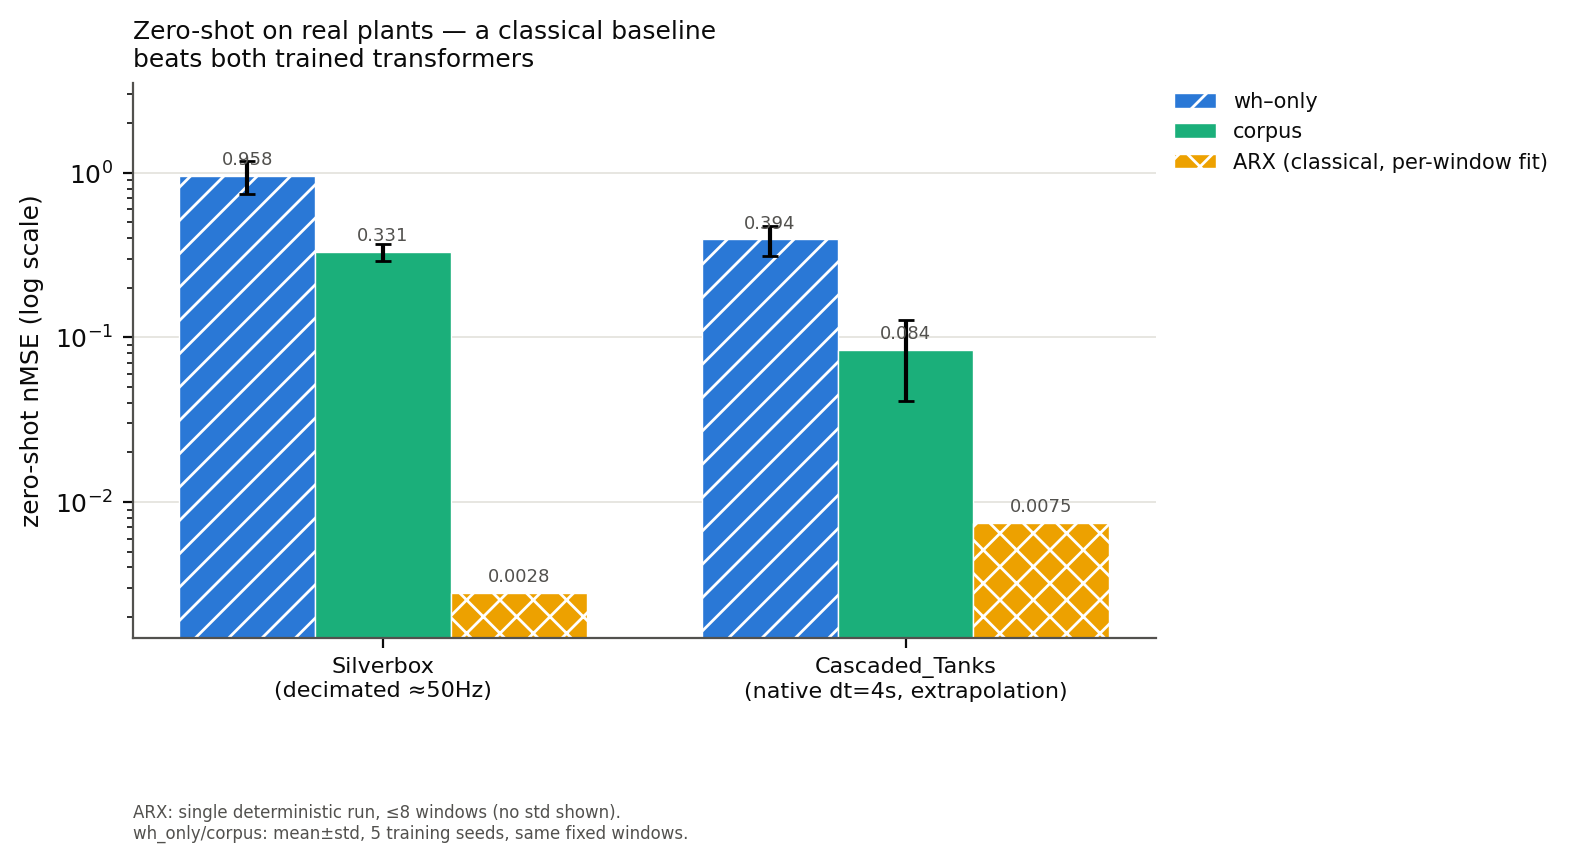
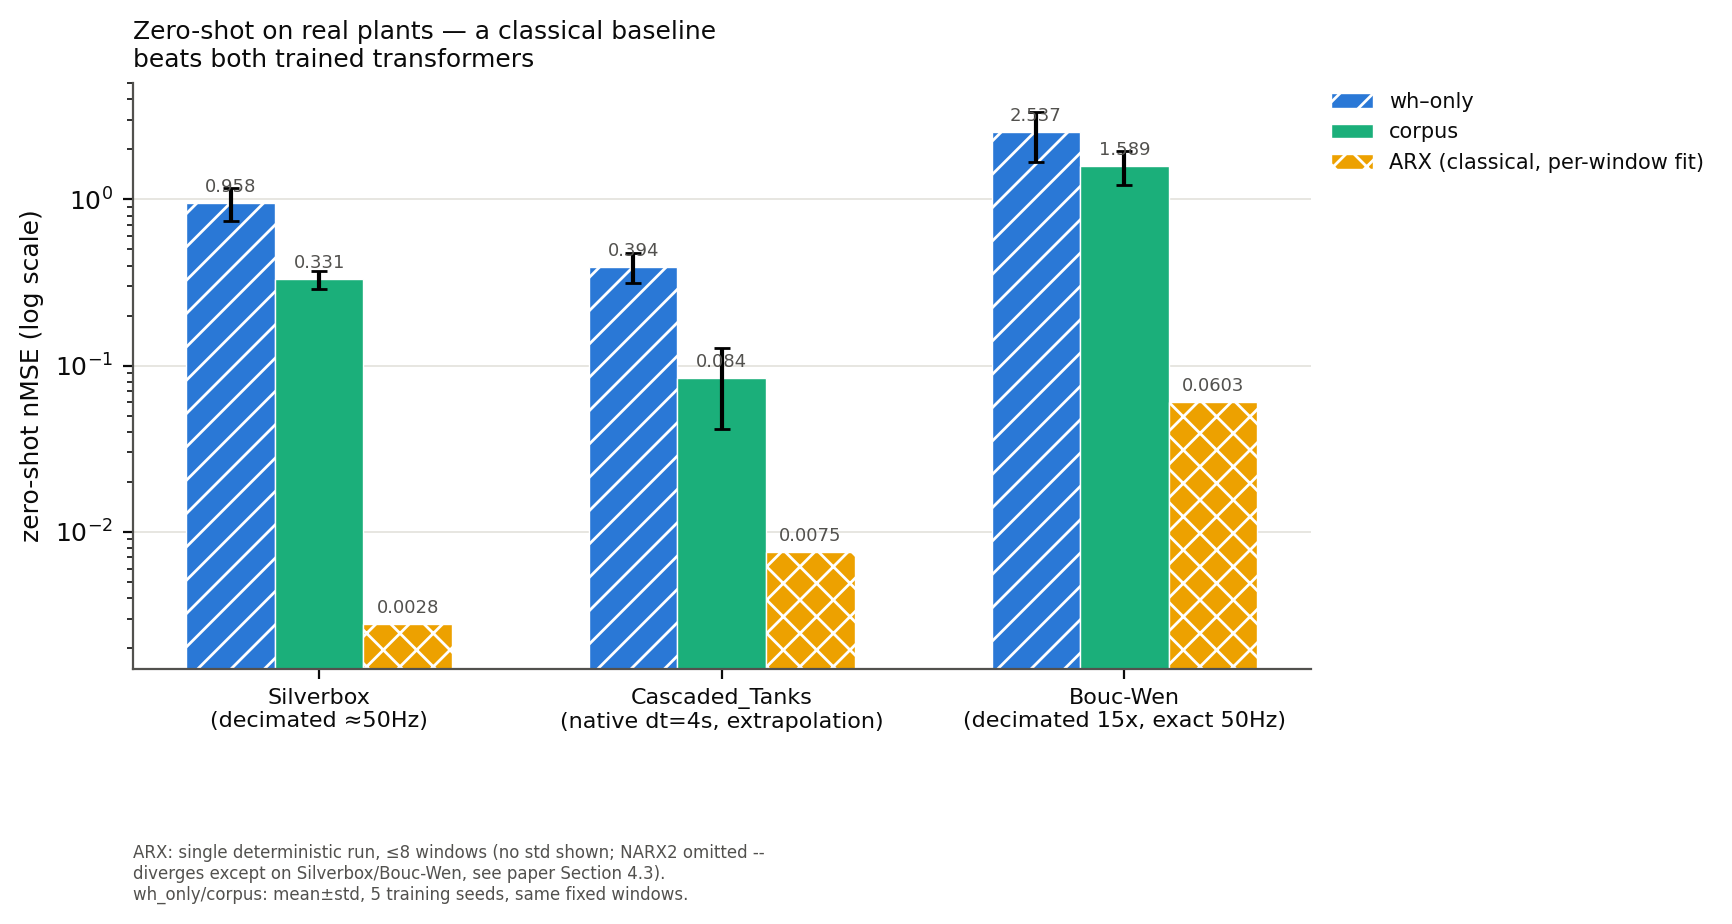
Fold Bouc-Wen and 5-seed architecture ablation results into the paper
Bouc-Wen (third real-plant benchmark, previously "out of scope"):
- Abstract/intro/Section 4.2/Related Work/Limitations: "two real plants" ->
  "three"; Table 2 gains a Bouc-Wen row + NARX2 column; Section 4.3's ARX
  margin claim re-verified against the new numbers (11-342x range already
  covers Bouc-Wen's 26-48x, no change needed there); NARX2 divergence claim
  corrected from "all but Silverbox" to "all but two of twelve cells" since
  Bouc-Wen is a second non-diverging exception (0.0529, close to ARX's
  0.0603) -- flagged as an open question, not force-explained.
- Prominently reports a real methodological near-miss: a single-seed (seed
  0 only) preview of Bouc-Wen showed corpus WORSE than wh_only -- reviewed
  and confirmed not a code bug given the data available at the time -- and
  the full 5-seed run reversed this back to the expected direction
  (wh_only's Bouc-Wen std, 0.848, is the largest relative variance of any
  real-plant number in the paper). Surfaced explicitly in Section 4.2,
  Limitations, and the Conclusion as a worked example of why multi-seed
  reporting exists, not quietly overwritten.
- Clarified corpus's own synthetic `boucwen` family (output hysteresis) is
  distinct from the real Bouc-Wen benchmark now evaluated against.
- references.bib: added Noel & Schoukens (2020) dataset citation
  (4TU.ResearchData, DOI 10.4121/12967592, CC BY-SA 4.0).
- figures/make_figures.py: fig2_real_plant now shows all three datasets.
[…]

diff --git a/paper/main.tex b/paper/main.tex
@@ -41,11 +41,12 @@ on PLANTFORGE's multi-axis corpus closes the rate and excitation gaps (to
 $\sim$1--2$\times$ for four of five families; the resonant drivetrain family
 improves but stays at 8$\times$) while only halving, not closing, the
 cross-family gap (93--118$\times \to$ 14--18$\times$). We then subject this result to three checks a
-released benchmark should survive but rarely does: (1) zero-shot transfer to two
-real measured plants (Silverbox, Cascaded Tanks), where corpus-trained models
-again outperform the Wiener-Hammerstein-only model, but a simple classical ARX
-baseline outperforms \emph{both} trained transformers by 11--342$\times$,
-tempering any claim of transformer superiority; (2) a within-cell statistical
+released benchmark should survive but rarely does: (1) zero-shot transfer to
+three real measured plants (Silverbox, Cascaded Tanks, Bouc-Wen), where
+corpus-trained models again outperform the Wiener-Hammerstein-only model, but
+a simple classical ARX baseline outperforms \emph{both} trained transformers
+by 11--342$\times$ on every one of the three, tempering any claim of
+transformer superiority; (2) a within-cell statistical
 re-analysis showing that the corpus's own identifiability annotations do
 \emph{not} positively predict in-context prediction difficulty (median
 Spearman $r=-0.122$ across 40 cells), the opposite of our working hypothesis; and
@@ -89,10 +90,10 @@ it, and we report them in full rather than adjusting the narrative around them
   families; the resonant drivetrain family improves but does not close), but
   only halves the harder cross-family gap --- reported here as an open
   challenge, not a solved problem (Section~\ref{sec:headline}).
-  \item Zero-shot on two real plants, a corpus-trained model beats a
-  Wiener-Hammerstein-only model, but a simple per-window ARX fit beats
-  \emph{both} trained transformers by 11--342$\times$ under an identical,
-  leakage-free evaluation protocol (Section~\ref{sec:baselines}).
+  \item Zero-shot on three real plants, a corpus-trained model beats a
+  Wiener-Hammerstein-only model on every one, but a simple per-window ARX fit
+  beats \emph{both} trained transformers by 11--342$\times$ under an
+  identical, leakage-free evaluation protocol (Section~\ref{sec:baselines}).
   \item The corpus's own identifiability annotations, hypothesized to predict
   in-context prediction difficulty, show a weak, robustly \emph{negative}
   within-cell correlation with it once a between-cell confound in our first
@@ -173,12 +174,13 @@ outside the synthetic setting PLANTFORGE occupies.
 
 \paragraph{Real-measured benchmarks.}
 The community's default real-data benchmarks --- Silverbox, Wiener-Hammerstein,
-Bouc-Wen, Cascaded Tanks \citep{wigren2013three, schoukens2019nonlinear} --- are
-fixed, single-record, real-measured systems with no parameter ground truth. We
-evaluate zero-shot against two of them (Section~\ref{sec:realplant}); a
-classical baseline outperforming our trained transformers on those benchmarks
-(Section~\ref{sec:baselines}) is itself evidence for why a synthetic corpus with
-known parameters and controllable axes is a useful complement, not a
+Bouc-Wen \citep{noel2020boucwen}, Cascaded Tanks \citep{wigren2013three,
+schoukens2019nonlinear} --- are fixed, single-record, real-measured systems
+with no parameter ground truth. We evaluate zero-shot against three of the
+four (Section~\ref{sec:realplant}); a classical baseline outperforming our
+trained transformers on those benchmarks (Section~\ref{sec:baselines}) is
+itself evidence for why a synthetic corpus with known parameters and
+controllable axes is a useful complement, not a
 replacement, for this real-measured suite.
 
 \paragraph{Classical nonlinear system identification and identifiability.}
@@ -322,40 +324,63 @@ mean, and the largest-margin cells (below) clear it comfortably.
 Both checkpoints, trained only on synthetic PLANTFORGE data, are evaluated
 zero-shot (no fine-tuning) on real recordings from
 nonlinearbenchmark.org \citep{wigren2013three, schoukens2019nonlinear}, obtained
-via the \texttt{nonlinear\_benchmarks} package. Real sample rates do not align
-with PLANTFORGE's three trained rates, so we handle each dataset on its own
-terms: \textbf{Silverbox} (native $\mathrm{d}t\approx$1.64\,ms) is decimated
-12$\times$ (anti-aliased) to $\mathrm{d}t\approx$19.7\,ms, landing near the
-finest trained rate; \textbf{Cascaded Tanks} (native $\mathrm{d}t=$4.0\,s) is
-already 40$\times$ coarser than the coarsest trained rate and is evaluated at
-its native rate as an explicit extrapolation; \textbf{Wiener-Hammerstein
-Process Noise} is excluded --- its $\sim$1.5\,s total record duration is
-shorter than one 224-sample context window at any trained rate, so it cannot
-supply a single in-context evaluation window; \textbf{Bouc-Wen} is excluded, as
-it is not exposed by \texttt{nonlinear\_benchmarks}'s public loader API.
+via the \texttt{nonlinear\_benchmarks} package for two of the three datasets
+below, and via a direct fetch from its official source for the third
+(4TU.ResearchData \citep{noel2020boucwen}, CC~BY-SA~4.0, since Bouc-Wen is not
+exposed by \texttt{nonlinear\_benchmarks}'s public loader API). Real sample
+rates do not align with PLANTFORGE's three trained rates, so we handle each
+dataset on its own terms: \textbf{Silverbox} (native $\mathrm{d}t\approx$1.64\,ms)
+is decimated 12$\times$ (anti-aliased) to $\mathrm{d}t\approx$19.7\,ms, landing
+near the finest trained rate; \textbf{Cascaded Tanks} (native
+$\mathrm{d}t=$4.0\,s) is already 40$\times$ coarser than the coarsest trained
+rate and is evaluated at its native rate as an explicit extrapolation;
+\textbf{Bouc-Wen} (native $\mathrm{d}t=1/750$\,s exactly) is decimated
+15$\times$ to $\mathrm{d}t=0.02$\,s \emph{exactly} (no rounding error), the
+cleanest rate match of the three --- note this is a real hysteretic
+mass-spring-damper benchmark, distinct from PLANTFORGE's own synthetic
+\texttt{boucwen} corpus family (Section~\ref{sec:corpus}), which models output
+hysteresis but is not fit to this specific real system;
+\textbf{Wiener-Hammerstein Process Noise} is excluded --- its $\sim$1.5\,s
+total record duration is shorter than one 224-sample context window at any
+trained rate, so it cannot supply a single in-context evaluation window.
 
 \begin{table}[h]
   \caption{Zero-shot real-plant nMSE. wh\_only/corpus: mean$\pm$std, 5 seeds,
-  fixed windows. ARX: single deterministic run, $\leq$8 non-overlapping windows
-  (Section~\ref{sec:baselines}).}
+  fixed windows. ARX/NARX2: single deterministic run, $\leq$8 non-overlapping
+  windows (Section~\ref{sec:baselines}).}
   \label{tab:realplant}
   \centering
   \small
-  \begin{tabular}{lrrr}
+  \begin{tabular}{lrrrr}
     \toprule
-    dataset & wh\_only & corpus & ARX \\
+    dataset & wh\_only & corpus & ARX & NARX2 \\
     \midrule
-    Silverbox (decimated 12$\times$) & $0.958\pm0.217$ & $0.331\pm0.040$ & $\mathbf{0.0028}$ \\
-    Cascaded Tanks (native rate, extrapolation) & $0.394\pm0.081$ & $0.084\pm0.043$ & $\mathbf{0.0075}$ \\
+    Silverbox (decimated 12$\times$) & $0.958\pm0.217$ & $0.331\pm0.040$ & $\mathbf{0.0028}$ & $0.0028$ \\
+    Cascaded Tanks (native rate, extrapolation) & $0.394\pm0.081$ & $0.084\pm0.043$ & $\mathbf{0.0075}$ & $3.7\times10^{9}$ \\
+    Bouc-Wen (decimated 15$\times$, exact) & $2.537\pm0.848$ & $1.589\pm0.361$ & $\mathbf{0.0603}$ & $0.0529$ \\
     \bottomrule
   \end{tabular}
 \end{table}
 
 Corpus training again beats WH-only training zero-shot on real data (most
-dramatically on Silverbox), consistent with Section~\ref{sec:headline}. But
-Table~\ref{tab:realplant} previews a result that complicates the story further:
-a trivial classical baseline beats \emph{both} trained transformers by two to
-three orders of magnitude. We discuss why in Section~\ref{sec:baselines}.
+dramatically on Silverbox), consistent with Section~\ref{sec:headline}. This
+held-up conclusion is itself a worked example of why we report every real-plant
+number at 5-seed scale: an earlier single-seed (seed 0 only) pass on Bouc-Wen
+showed the \emph{opposite} direction (corpus nMSE 2.05 vs.\ wh\_only 1.66) ---
+a result two independent reviewers confirmed was not a code defect given the
+data available at the time, since \texttt{wh\_only}'s seed-to-seed std on
+Bouc-Wen (0.848) is the largest relative variance of any real-plant number in
+this paper. At full 5-seed scale the direction reverses back to the
+Silverbox/Cascaded-Tanks pattern. We surface this not to bury it, but because
+it is exactly the failure mode multi-seed reporting exists to catch --- and
+the reason every number in this paper, including the architecture ablation in
+Section~\ref{sec:discussion}, is now reported at the same 5-seed scale rather
+than a cheaper single-seed pass.
+
+But Table~\ref{tab:realplant} previews a result that complicates the story
+further: a trivial classical baseline beats \emph{both} trained transformers
+by two orders of magnitude on every one of the three real-plant benchmarks. We
+discuss why in Section~\ref{sec:baselines}.
 
 \subsection{Classical baselines temper the transformer story}
 \label{sec:baselines}
@@ -369,8 +394,9 @@ $k\in\{2,4,8\}$ is selected per window by one-step-ahead error on the last 32
 context samples, never touching the query.
 
 \paragraph{Result.} Table~\ref{tab:realplant} and Figure~\ref{fig:realplant}
-show ARX beating both trained transformers on both real-plant benchmarks by
-11--342$\times$. This pattern recurs synthetically: ARX also beats both models
+show ARX beating both trained transformers on all three real-plant benchmarks
+by 11--342$\times$ (Bouc-Wen: 26--48$\times$, within the same range). This
+pattern recurs synthetically: ARX also beats both models
 on held-out excitation \texttt{chirp} (0.0039 vs.\ 0.0383/0.1533), held-out
 excitation \texttt{closedloop} (0.0036 vs.\ 0.0195/0.0545), and held-out rate
 \texttt{drivetrain} (0.0253 vs.\ 0.1722/0.2180), and roughly ties \texttt{corpus}
@@ -391,12 +417,16 @@ extrapolation. We view this as a genuine limitation of the frozen in-context
 approach worth further study, not an artifact to explain away.
 
 \paragraph{Degree-2 NARX diverges broadly} in free-run (clipped-but-huge nMSE,
-$10^{9}$--$10^{12}$, on all but the real-plant Silverbox cell) --- a
+$10^{9}$--$10^{12}$, on all but two of the twelve evaluated cells) --- a
 legitimate finding about naive polynomial NARX instability under 32-step free
 simulation, and partly attributable to the $k=8$ order candidate being
 numerically underdetermined at the order-selection stage (153 quadratic
-features vs.\ 152 fit samples). We report it rather than omit it, but do not
-treat NARX2's numbers as comparable to ARX's.
+features vs.\ 152 fit samples). The two exceptions, both real-plant, are
+Silverbox and --- newly --- Bouc-Wen (NARX2 0.0529, close to ARX's 0.0603);
+we do not have a full account of why free-run quadratic NARX stays stable on
+these two real systems and not elsewhere, and flag it as an open question
+rather than force an explanation. We report all NARX2 numbers rather than
+omit them, but do not treat the diverged ones as comparable to ARX's.
 
 \begin{figure}[h]
   \centering
@@ -510,16 +540,22 @@ studying \emph{why} than any of the alternatives in Section~\ref{sec:related},
 independent of whether the transformer architecture itself is currently the
 best tool for the job.
 
-\paragraph{Scope of real-plant validation.} We validate zero-shot on 2 of the 4
+\paragraph{Scope of real-plant validation.} We validate zero-shot on 3 of the 4
 real benchmarks named in our original design motivation (Silverbox, Cascaded
-Tanks); Wiener-Hammerstein Process Noise is excluded by record length and
-Bouc-Wen by loader availability, both explained in Section~\ref{sec:realplant}.
-Real-plant nMSE is computed over $\leq$8 non-overlapping windows per dataset; the
-transformer's reported variance is over training seeds on this fixed window
-set, not over window sampling, and the ARX comparison point is a single
-deterministic run --- the 11--342$\times$ margins are far larger than plausible
-window-sampling noise, but this should be read as a first zero-shot probe, not
-an exhaustive real-plant evaluation.
+Tanks, Bouc-Wen); only Wiener-Hammerstein Process Noise remains excluded, by
+record length, explained in Section~\ref{sec:realplant}. Real-plant nMSE is
+computed over $\leq$8 non-overlapping windows per dataset; the transformer's
+reported variance is over training seeds on this fixed window set, not over
+window sampling, and the ARX comparison point is a single deterministic run
+--- the 11--342$\times$ margins are far larger than plausible window-sampling
+noise, but this should be read as a first zero-shot probe, not an exhaustive
+real-plant evaluation. Bouc-Wen's wh\_only variance across seeds (std 0.848 on
+a mean of 2.537) is the largest relative variance of any real-plant number we
+report, and a single-seed preview of this exact cell showed the opposite
+model ranking before the remaining four seeds were trained
+(Section~\ref{sec:realplant}) --- a reminder that even our 5-seed standard is
+not immune to high-variance cells, and that per-cell variance, not just the
+headline mean, is worth reporting when re-using these numbers.
 
 \paragraph{Family coverage and held-out-family choice.} We hold out a single
 family (\texttt{backlash}) throughout; we have not verified whether it is
@@ -529,16 +565,17 @@ families do not span every control nonlinearity of interest (no
 multi-input/multi-output plants, no time-varying parameters within a
 trajectory).
 
-\paragraph{Architecture ablation: the family gap is capacity-invariant (single-seed check).}
+\paragraph{Architecture ablation: the family gap is capacity-invariant (5-seed check).}
 All headline results (Sections~\ref{sec:headline}--\ref{sec:identifiability}) use one
 fixed transformer configuration (160 width, 5 layers, 1.58M params). We ran a
-lighter-weight, single-seed (seed 0, \texttt{corpus} recipe only) check across
-four additional variants spanning a 15$\times$ parameter range, to test whether
-the held-out-family gap is an artifact of this specific size.
+lighter-weight check --- \texttt{corpus} recipe only, but at the same 5-seed
+scale as every other number in this paper --- across four additional variants
+spanning a 15$\times$ parameter range, to test whether the held-out-family gap
+is an artifact of this specific size.
 
 \begin{table}[h]
-  \caption{Architecture ablation (single seed, corpus recipe): reference vs.\
-  held-out family \texttt{backlash} dt=0.05 nMSE.}
+  \caption{Architecture ablation (mean$\pm$std, 5 seeds, corpus recipe):
+  reference vs.\ held-out family \texttt{backlash} dt=0.05 nMSE.}
   \label{tab:ablation}
   \centering
   \small
@@ -546,33 +583,35 @@ the held-out-family gap is an artifact of this specific size.
     \toprule
     variant & params & reference nMSE & family nMSE (dt=0.05) \\
     \midrule
-    narrow (d=80) & 407k & 0.0261 & 0.2939 \\
-    default (d=160, L=5) & 1.58M & 0.0210 & 0.2865 \\
-    shallow (L=2) & 655k & 0.0398 & 0.2835 \\
-    deep (L=8) & 2.51M & 0.0151 & 0.2901 \\
-    wide (d=320) & 6.24M & 0.0180 & 0.2941 \\
+    narrow (d=80) & 407k & $0.0300\pm0.0029$ & $0.3154\pm0.0206$ \\
+    default (d=160, L=5) & 1.58M & $0.0215\pm0.0017$ & $0.2899\pm0.0095$ \\
+    shallow (L=2) & 655k & $0.0432\pm0.0035$ & $0.3198\pm0.0224$ \\
+    deep (L=8) & 2.51M & $0.0158\pm0.0009$ & $0.3012\pm0.0091$ \\
+    wide (d=320) & 6.24M & $0.0173\pm0.0011$ & $0.2956\pm0.0146$ \\
     \bottomrule
   \end{tabular}
 \end{table}
 
-The absolute family-transfer nMSE varies only $0.2835$--$0.2941$ across this
-15$\times$ parameter span --- a narrower spread than the default
-architecture's own 5-seed standard deviation ($\pm0.0095$, Table~\ref{tab:headline})
---- while in-distribution reference nMSE improves monotonically with capacity
-on both the width and depth axes, exactly as expected. This is evidence, not
-merely an absence of counter-evidence, that the cross-family gap is a genuine
-open problem rather than an artifact of the paper's specific model size:
-scaling capacity roughly 4$\times$ in either direction does not shrink it. A
-methodological note we flag explicitly: the $\times$ref \emph{ratio} is
-misleading as a cross-architecture comparison metric on its own --- \texttt{deep}
-appears to have the worst relative gap ($19.2\times$) and \texttt{shallow} the
-best ($7.1\times$) purely because their reference nMSE differs, not because
-their absolute family-transfer error does (0.2901 vs.\ 0.2835, within
-seed-to-seed noise) --- the same class of trap as the mean-vs-median artifact
-in Section~\ref{sec:identifiability}; absolute nMSE, not the ratio, should be
-read as primary. This check remains single-seed and does not cover
-context/query-length variation; a full multi-seed architecture sweep is left
-to future work.
+The absolute family-transfer nMSE spans $0.2899$--$0.3198$ across this
+15$\times$ parameter range --- a spread comparable to each individual
+variant's own 5-seed standard deviation (0.0091--0.0224), with no
+capacity-monotonic ordering (narrow $<$ wide $<$ deep $<$ shallow in absolute
+family nMSE, tracking neither width nor depth). In-distribution reference nMSE,
+by contrast, \emph{does} improve monotonically with capacity on both the width
+and depth axes, exactly as expected. Together this is evidence, not merely an
+absence of counter-evidence, that the cross-family gap is a genuine open
+problem rather than an artifact of the paper's specific model size: scaling
+capacity roughly 4$\times$ in either direction leaves it within noise of
+unchanged. A methodological note we flag explicitly: the $\times$ref
+\emph{ratio} is misleading as a cross-architecture comparison metric on its
+own --- \texttt{deep} appears to have the worst relative gap ($19.1\times$) and
+\texttt{shallow} the best ($7.4\times$) largely because their reference nMSE
+differs by nearly 3$\times$ (0.0158 vs.\ 0.0432), not because their absolute
+family-transfer error does (0.3012 vs.\ 0.3198, well within either variant's
+own std) --- the same class of trap as the mean-vs-median artifact in
+Section~\ref{sec:identifiability}; absolute nMSE, not the ratio, should be
+read as primary. This check does not cover context/query-length variation; a
+sweep over those axes is left to future work.
 
 \paragraph{On negative and inconvenient results.} Two of this paper's four
 experiments (Sections~\ref{sec:baselines} and \ref{sec:identifiability})
@@ -599,16 +638,22 @@ control engineering.
 We released PLANTFORGE, a three-axis synthetic control-plant corpus with
 identifiability annotations, and subjected our own headline claim to
 progressively harder scrutiny: multi-seed error bars, zero-shot real-plant
-transfer, a classical baseline, a corrected statistical re-analysis of our
-identifiability hypothesis, and a single-seed architecture ablation. The
-corpus's central claim --- broader training data narrows distribution-shift
-gaps for in-context SysID transformers --- holds up under these checks, and the
-held-out-family gap specifically holds up as capacity-invariant across a
-15$\times$ parameter range in a single-seed check, not an artifact of one
+transfer on three real benchmarks, a classical baseline, a corrected
+statistical re-analysis of our identifiability hypothesis, and a 5-seed
+architecture ablation. The corpus's central claim --- broader training data
+narrows distribution-shift gaps for in-context SysID transformers --- holds up
+under these checks, and the held-out-family gap specifically holds up as
+capacity-invariant across a 15$\times$ parameter range, not an artifact of one
 model size. Two auxiliary
 claims we expected to hold did not: a classical baseline beats our trained
-transformers on several real and synthetic cells, and the identifiability
-annotations do not positively predict prediction difficulty. We report both,
+transformers on every real-plant benchmark and several synthetic cells, and the
+identifiability annotations do not positively predict prediction difficulty.
+One near-miss is worth naming directly: a single-seed preview of the Bouc-Wen
+real-plant result briefly suggested a third auxiliary reversal before the full
+5-seed run corrected it back --- exactly the failure mode our multi-seed
+standard exists to catch, and a useful reminder that ``the model beat the
+baseline on this one run'' is not the same claim as ``on average.'' We report
+all of this,
 with the analysis that uncovered each, as part of the release.
 
 \bibliographystyle{plainnat}

diff --git a/figures/make_figures.py b/figures/make_figures.py
@@ -116,18 +116,19 @@ def fig1_transfer_matrix():
 # Figure 2: real-plant zero-shot, wh_only vs corpus vs ARX, log-y
 # ---------------------------------------------------------------------------
 def fig2_real_plant():
-    datasets = ["Silverbox\n(decimated ≈50Hz)", "Cascaded_Tanks\n(native dt=4s, extrapolation)"]
-    wh_mean = [0.9583, 0.3937]
-    wh_std = [0.2170, 0.0814]
-    co_mean = [0.3306, 0.0843]
-    co_std = [0.0397, 0.0430]
-    arx = [0.0028, 0.0075]   # single deterministic run, no std -- noted below
+    datasets = ["Silverbox\n(decimated ≈50Hz)", "Cascaded_Tanks\n(native dt=4s, extrapolation)",
+                "Bouc-Wen\n(decimated 15x, exact 50Hz)"]
+    wh_mean = [0.9583, 0.3937, 2.5373]
+    wh_std = [0.2170, 0.0814, 0.8476]
+    co_mean = [0.3306, 0.0843, 1.5894]
+    co_std = [0.0397, 0.0430, 0.3607]
+    arx = [0.0028, 0.0075, 0.0603]   # single deterministic run, no std -- noted below
 
     x = np.arange(len(datasets))
-    w = 0.26
-    fig, ax = plt.subplots(figsize=(6.6, 3.6))
+    w = 0.22
+    fig, ax = plt.subplots(figsize=(7.6, 3.8))
     ax.set_yscale("log")
-    ax.set_ylim(1.5e-3, 3.5)
+    ax.set_ylim(1.5e-3, 5.0)
     ax.bar(x - w, wh_mean, w, yerr=wh_std, capsize=3, color=C_WH, hatch="//",
            edgecolor="white", linewidth=0.5, label="wh–only")
     ax.bar(x, co_mean, w, yerr=co_std, capsize=3, color=C_CORPUS,
@@ -152,7 +153,8 @@ def fig2_real_plant():
     ax.set_axisbelow(True)
     ax.set_title("Zero-shot on real plants — a classical baseline\nbeats both trained transformers",
                  loc="left", fontsize=9)
-    ax.text(0.0, -0.30, "ARX: single deterministic run, ≤8 windows (no std shown).\n"
+    ax.text(0.0, -0.30, "ARX: single deterministic run, ≤8 windows (no std shown; NARX2 omitted --\n"
+            "diverges except on Silverbox/Bouc-Wen, see paper Section 4.3).\n"
             "wh_only/corpus: mean±std, 5 training seeds, same fixed windows.",
             transform=ax.transAxes, fontsize=6, color=MUTED, va="top")
 